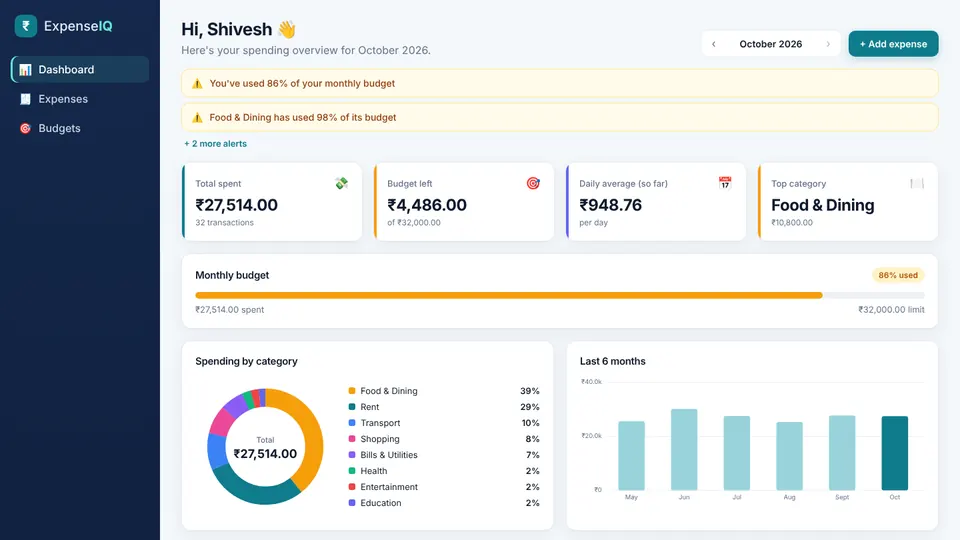
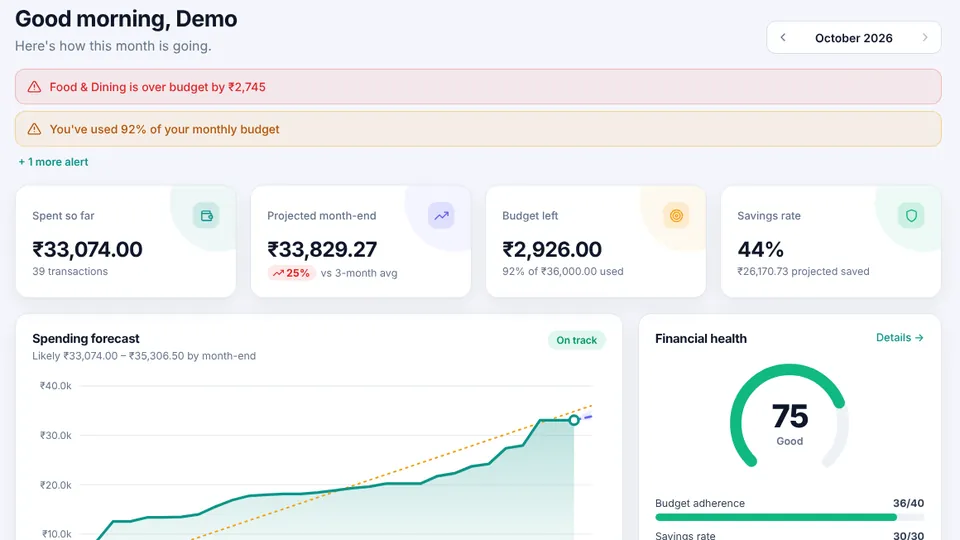
Update ExpenseIQ project (v2 features, new screenshot) and résumé
Claude-Session: https://claude.ai/code/session_01KuRkNkAwMpA497ivUj1fM9

diff --git a/src/data/portfolio.ts b/src/data/portfolio.ts
@@ -103,16 +103,16 @@ export const featuredProjects: Project[] = [
   {
     title: "ExpenseIQ: Full-Stack Expense Tracker",
     description:
-      "A MERN-stack web app with JWT authentication and a REST API for tracking and categorising expenses, monthly and category budgets with smart alerts, spending charts and CSV export.",
+      "A MERN finance app that predicts and explains spending: month-end forecasts with a confidence band, statistical anomaly detection, a financial health score, auto-categorisation, recurring payments and CSV import. Try the one-click live demo.",
     category: "Full-Stack",
-    tech: ["React", "Node.js", "Express", "MongoDB", "JWT"],
+    tech: ["React", "Node.js", "Express", "MongoDB", "JWT", "OpenAPI"],
     image: "/img/projects/expenseiq.webp",
     github: "https://github.com/shivesh122/expenseiq",
     live: "https://expenseiq-9h2k.onrender.com",
     metrics: [
-      { value: "JWT", label: "secure auth" },
-      { value: "REST", label: "API" },
-      { value: "CSV", label: "export" },
+      { value: "25+", label: "REST endpoints" },
+      { value: "53", label: "automated tests" },
+      { value: "1-click", label: "live demo" },
     ],
   },
 ];
